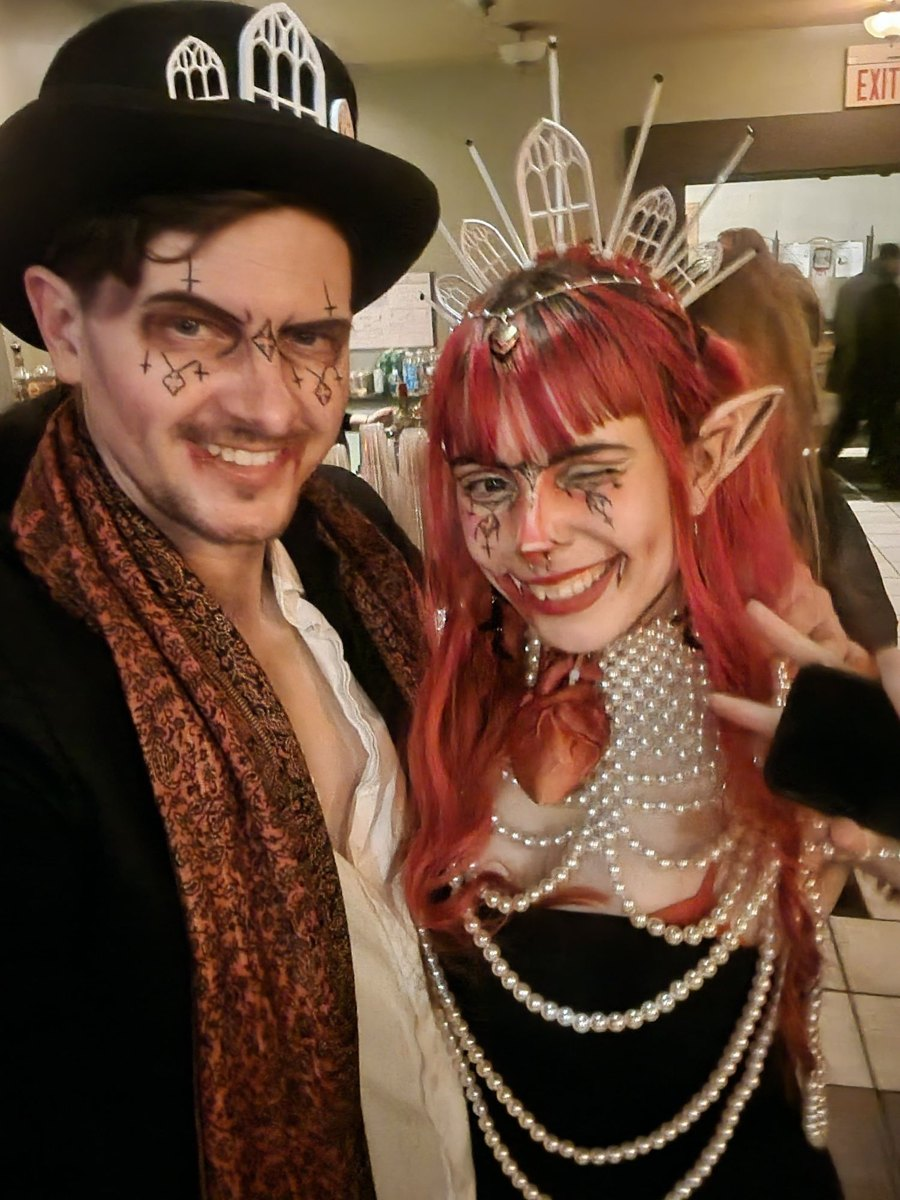
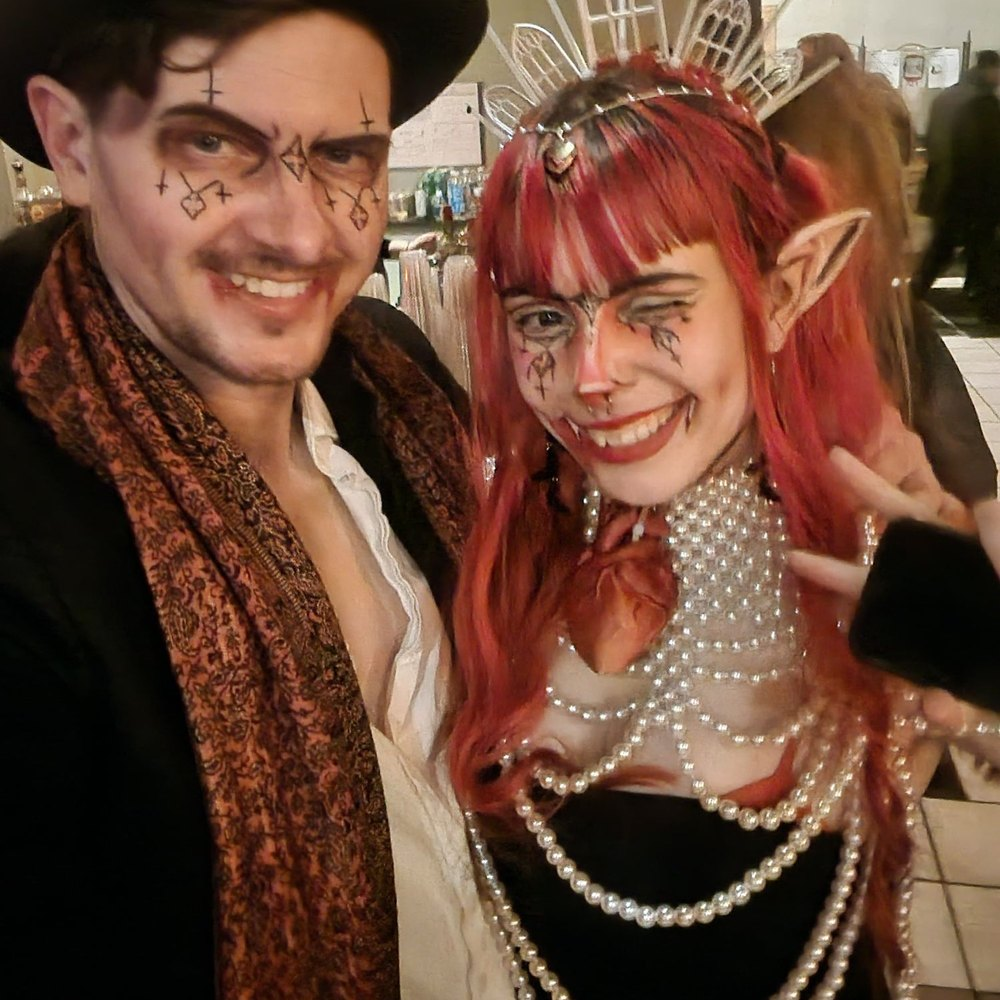
Bio: simple bordered box, square profile photo, real band bio
Claude-Session: https://claude.ai/code/session_01KXXsZ6QmqLTuE89aaTCdiu

diff --git a/assets/css/palefire.css b/assets/css/palefire.css
@@ -77,40 +77,24 @@ header > p { color: var(--text-dim); font-style: normal; }
 	font-size: 0.4em;
 }
 
-/* Gothic window frame around the bio: pointed arch on top, straight sides */
-.arch-frame {
+/* Bordered box around the bio */
+.bio-frame {
 	position: relative;
-	max-width: 30em;
+	max-width: 34em;
 	margin: 0 auto;
-	padding: 0 2.5em 2.5em 2.5em;
+	padding: 3em 2.5em 2.5em 2.5em;
+	border: 1px solid #3a3142;
 }
 
-	/* the window's straight sides and sill, starting where the arch ends
-	   (margin-top % is a % of the width; 178/300 is the arch's height/width) */
-	.arch-frame:after {
-		content: '';
-		position: absolute;
-		top: 0; left: 0; right: 0; bottom: 0;
-		margin-top: 59.333%;
-		border: 1px solid #3a3142;
-		border-top: 0;
-		pointer-events: none;
+	.bio-frame .bio-text {
+		text-align: left;
+		color: var(--text);
+		line-height: 1.75;
+		margin: 0 0 1.25em 0;
 	}
 
-	.arch-frame:before {
-		content: '';
-		display: block;
-		aspect-ratio: 300 / 178;
-		margin: 0 0 -13em 0;
-		width: calc(100% + 5em);
-		margin-left: -2.5em;
-		background: url("images/arch-top.svg") bottom / 100% 100% no-repeat;
-	}
-
-	.arch-frame h2 { position: relative; }
-
-	/* symbol (from the logo) at the top of the bio arch */
-	.arch-frame .symbol {
+	/* symbol (from the logo) at the top of the bio box */
+	.bio-frame .symbol {
 		position: relative;
 		display: block;
 		width: 6.5em;
@@ -119,7 +103,7 @@ header > p { color: var(--text-dim); font-style: normal; }
 	}
 
 	/* band profile photo */
-	.arch-frame .profile {
+	.bio-frame .profile {
 		position: relative;
 		display: block;
 		width: 18em;
@@ -129,9 +113,9 @@ header > p { color: var(--text-dim); font-style: normal; }
 		border: 1px solid var(--line);
 	}
 
-	.arch-frame .button { position: relative; margin-top: 0.5em; }
+	.bio-frame .button { position: relative; margin-top: 0.5em; }
 
-	.arch-frame .note {
+	.bio-frame .note {
 		position: relative;
 		margin: 0.75em 0 0 0;
 		font-size: 0.85em;
@@ -562,10 +546,9 @@ ul.social li a {
 	#top.hero .banner { aspect-ratio: 1 / 1; }
 	#top.hero .logo { height: 62%; }
 	#links { padding: 2.5em 0; }
-	.arch-frame .symbol { width: 5em; }
+	.bio-frame .symbol { width: 5em; }
 	.gram { gap: 2px; }
-	.arch-frame { padding: 0 1.25em 1.5em 1.25em; }
-	.arch-frame:before { width: calc(100% + 2.5em); margin: 0 0 -7em -1.25em; }
+	.bio-frame { padding: 2em 1.25em 1.5em 1.25em; }
 	.roundels { gap: 0.9em; }
 	.roundels .ring { width: 5em; height: 5em; }
 	.roundels svg { width: 2em; height: 2em; }

diff --git a/index.html b/index.html
@@ -52,11 +52,12 @@
 		<!-- Bio -->
 			<article id="bio" class="wrapper style3">
 				<div class="container">
-					<header class="arch-frame">
+					<header class="bio-frame">
 						<img class="symbol" src="images/symbol.png" alt="" />
 						<h2>Palefire</h2>
-						<img class="profile" src="images/profile.jpg" alt="The two members of Palefire in gothic window crowns" />
-						<p>Our bio goes here.</p>
+						<img class="profile" src="images/profile.jpg" alt="Milan and Maika of Palefire" />
+						<p class="bio-text">Palefire is the duo of Milan and Maika, musicians haunting Easton, PA. Songwriters in their own right, they summoned Palefire to honor, and resurrect, some of their favorite songs. Nancy Sinatra&rsquo;s &ldquo;Bang Bang,&rdquo; The Cure&rsquo;s &ldquo;Lovesong,&rdquo; Metric&rsquo;s &ldquo;Black Sheep&rdquo; and Billy Idol&rsquo;s &ldquo;Eyes Without a Face&rdquo; are reborn with Palefire&rsquo;s own haunting, ethereal, vampiric energy.</p>
+						<p class="bio-text">Seek out their other projects, too: Milan&rsquo;s Enoki! and Maika&rsquo;s Echobone.</p>
 						<a href="#book" class="button scrolly">Book Us</a>
 						<p class="note"><a href="https://docs.google.com/document/d/1NQ6gU32zzYr6Vs5m2Xhc7zzbMBOrbpwpPZe6cXFixHI/edit?usp=sharing" target="_blank" rel="noopener">The Pale Fire Real Fake Book</a></p>
 					</header>

diff --git a/README.md b/README.md
@@ -6,7 +6,7 @@
 - `assets/css/palefire.css` — **the Palefire theme** (colors and fonts are variables at the top). Loaded after `main.css`, so it overrides the template.
 - `assets/css/main.css` — original template styles (best left alone).
 - `assets/js/` — scripts (`main.js` is the template's own logic; `lightbox.js` opens media photos full size — each tile's link points to its full image).
-- `assets/css/images/` — gothic shapes: `arch.svg` (pointed arch tiles), `arch-top.svg` (window frame around the logo and bio), `ornament.svg` (heading divider).
+- `assets/css/images/` — gothic shapes: `arch.svg` (pointed arch behind show dates), `ornament.svg` (heading divider).
 - `images/logo.png`, `images/symbol.png`, `images/favicon.png` — band logo, the eye symbol from its top, and the browser-tab icon (rendered from the 3D logo).
 - `images/banner.jpg` — wide photo behind the logo at the top (placeholder; replace with a photo of the band playing). It's cropped to fit, so keep the important part near the middle.
 - `images/` — replace `pic00.jpg`–`pic06.jpg` with your own images (keep names or update `index.html`).
